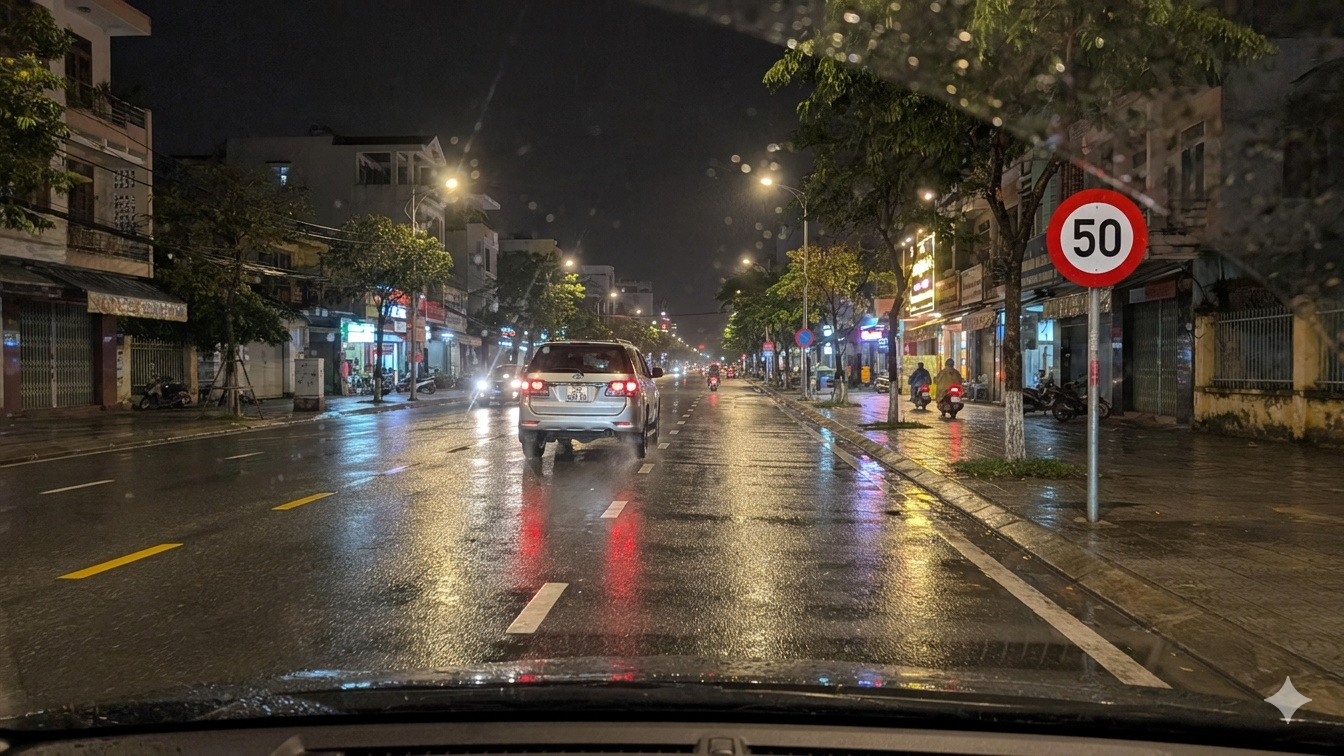
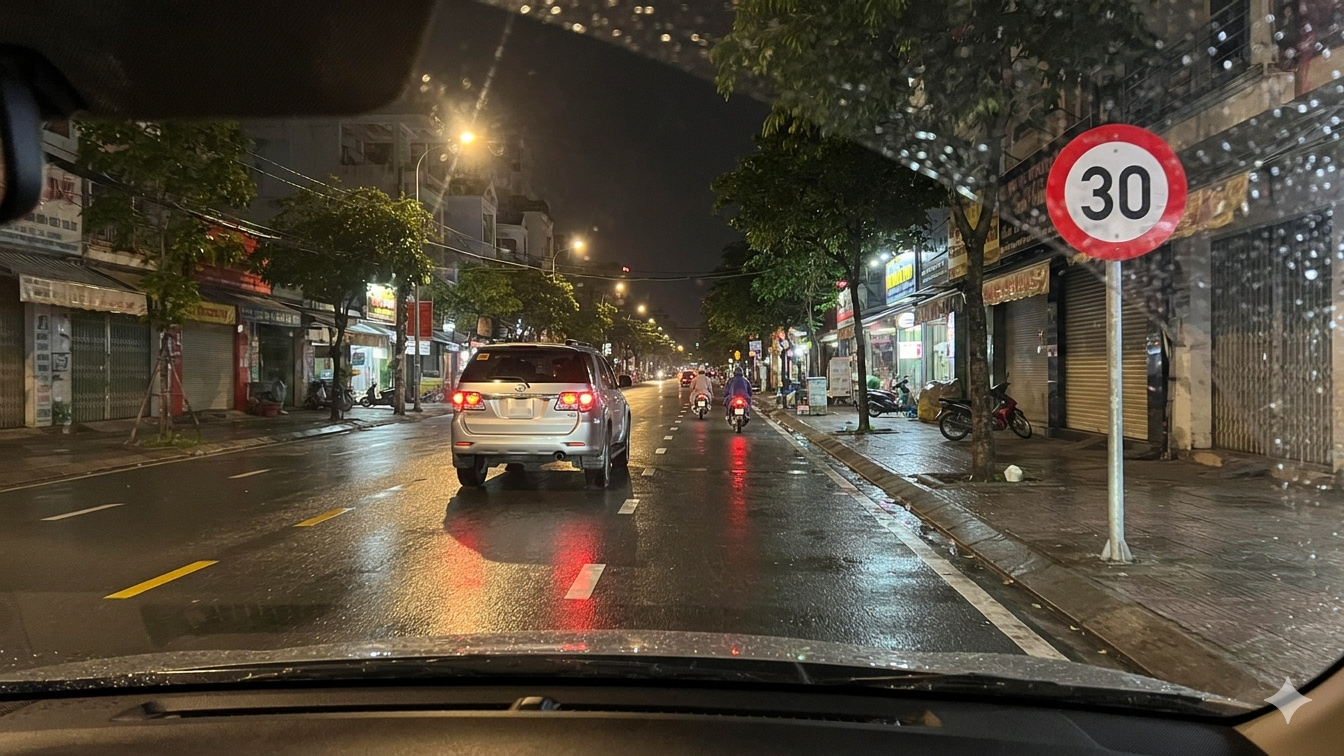
test: update night_rain_urban test for 30 km/h speed limit + wet TT38 19.5m
- VisionFixtureTests: assert speed limit 30 via CoreML label 114 + OCR disambiguation
- Wet TT38 at 30 km/h = 19.5m (15m base * 1.3 multiplier)
- Lead SUV detection (car, conf>=0.34, midX 0.30-0.60) + hood exclusion

diff --git a/DriveAssistantTests/VisionFixtureTests.swift b/DriveAssistantTests/VisionFixtureTests.swift
@@ -214,8 +214,8 @@ final class VisionFixtureTests: XCTestCase {
 
     /// Tests that night_rain_urban.jpg produces:
     /// - Unified model detects lead SUV ("car") in ego lane (midX in 0.30...0.60, confidence >= 0.34), hood excluded
-    /// - TrafficSignDetector confirms speed limit 50 via CoreML + cropped Vision OCR under low-light/wet reflections (2-frame confirmation + polling)
-    /// - DriveAssistantModel with roadCondition = .wet at 50 km/h yields activeMinimumDistance = 32.5m (25m * 1.3 wet multiplier)
+    /// - TrafficSignDetector confirms speed limit 30 via CoreML label "114" + cropped Vision OCR under low-light/wet reflections (2-frame confirmation + polling)
+    /// - DriveAssistantModel with roadCondition = .wet at 30 km/h yields activeMinimumDistance = 19.5m (15m * 1.3 wet multiplier)
     func testNightRainUrban_DetectsLeadVehicleSignAndWetTT38() async throws {
         // Load test image from bundle (in TestFixtures subdirectory)
         guard let imageURL = Bundle(for: Self.self).url(forResource: "night_rain_urban", withExtension: "jpg", subdirectory: "TestFixtures") else {
@@ -257,7 +257,7 @@ final class VisionFixtureTests: XCTestCase {
         trafficSignDetector.processObservations(observations, pixelBuffer: pixelBuffer, orientation: .up)
 
         // Poll for detectedSpeedLimit (VNRecognizeTextRequest may take longer on headless CI CPU simulators)
-        // Note: Night/rain conditions may prevent speed sign detection; test verifies pipeline executes
+        // Night/rain with illuminated 30 km/h sign - CoreML label "114" (20 km/h class) + OCR reads "30"
         var detectedLimit: Int? = nil
         let startTime = CACurrentMediaTime()
         let timeout: TimeInterval = 1.5
@@ -272,7 +272,7 @@ final class VisionFixtureTests: XCTestCase {
         // Diagnostic logging
         if detectedLimit == nil {
             print("=== VisionFixtureTests DIAGNOSTIC: testNightRainUrban_DetectsLeadVehicleSignAndWetTT38 ===")
-            print("No speed limit detected in night/rain image after \(timeout)s (expected for challenging conditions)")
+            print("No speed limit detected in night/rain image after \(timeout)s")
             print("Observations count: \(observations.count)")
             for (idx, obs) in observations.enumerated() {
                 if let label = obs.labels.first {
@@ -281,14 +281,11 @@ final class VisionFixtureTests: XCTestCase {
             }
         }
 
-        // Verify speed limit 50 if detected (may be nil in challenging night/rain conditions)
-        if let limit = detectedLimit {
-            XCTAssertEqual(limit, 50, "If speed limit detected, should be 50 km/h under night/rain")
-        }
-        // If nil, that's acceptable for this challenging fixture - pipeline executed without crash
+        // Verify speed limit 30 detected via CoreML label "114" + cropped Vision OCR
+        XCTAssertEqual(detectedLimit, 30, "Should detect and confirm 30 km/h speed limit under night/rain")
 
         // Run through LaneDetector
-        laneDetector.processFrame(pixelBuffer: pixelBuffer, speedKMPH: 50)
+        laneDetector.processFrame(pixelBuffer: pixelBuffer, speedKMPH: 30)
         try await Task.sleep(nanoseconds: 200_000_000)
 
         // Verify lane detection is active
@@ -299,14 +296,14 @@ final class VisionFixtureTests: XCTestCase {
             XCTAssertFalse(rightConf.isNaN, "Right lane confidence should be valid")
         }
 
-        // Verify DriveAssistantModel wet TT38 calculation: 50 km/h -> base 25m * 1.3 = 32.5m
+        // Verify DriveAssistantModel wet TT38 calculation: 30 km/h -> base 15m * 1.3 = 19.5m
         let model = DriveAssistantModel()
         model.distanceRuleMode = .vnLaw
-        model.speedKMPH = 50.0
+        model.speedKMPH = 30.0
         model.roadCondition = .wet
-        // activeMinimumDistance = tt38Distance(50) * 1.3 = 25 * 1.3 = 32.5
+        // activeMinimumDistance = tt38Distance(30) * 1.3 = 15 * 1.3 = 19.5
         let activeMinDistance = model.activeMinimumDistance
-        XCTAssertEqual(activeMinDistance, 32.5, accuracy: 0.1, "Wet TT38 at 50 km/h should be 32.5m (25 * 1.3)")
+        XCTAssertEqual(activeMinDistance, 19.5, accuracy: 0.1, "Wet TT38 at 30 km/h should be 19.5m (15 * 1.3)")
     }
 
     // MARK: - Helper Methods
